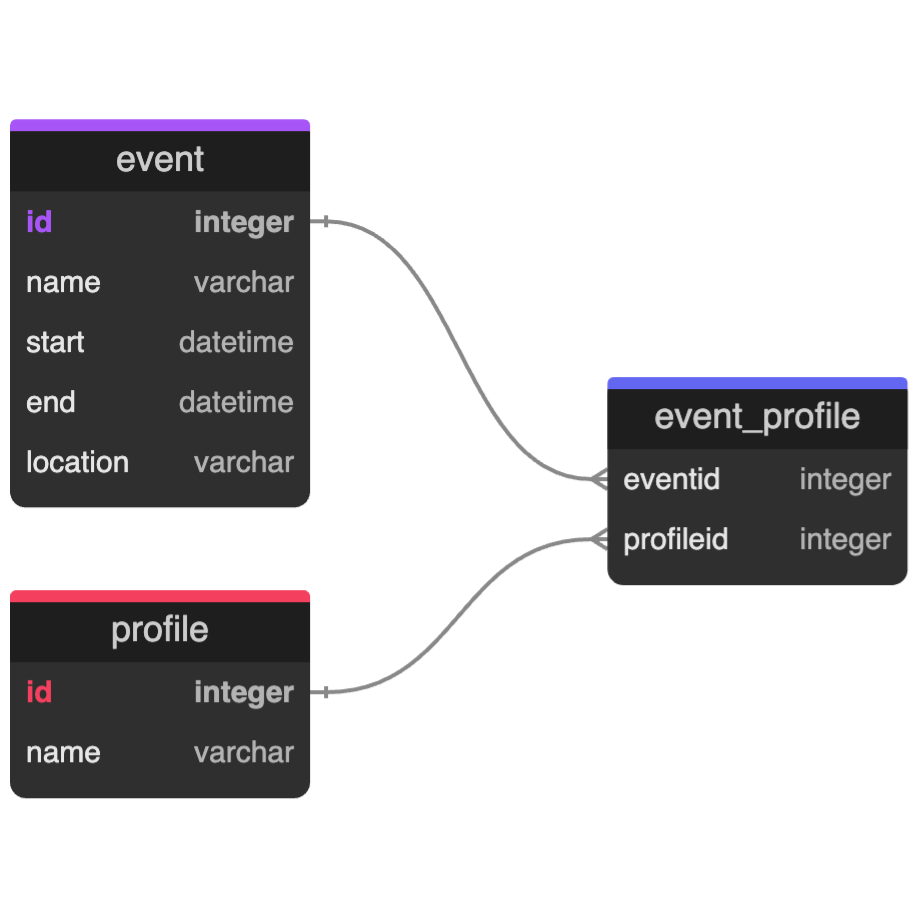
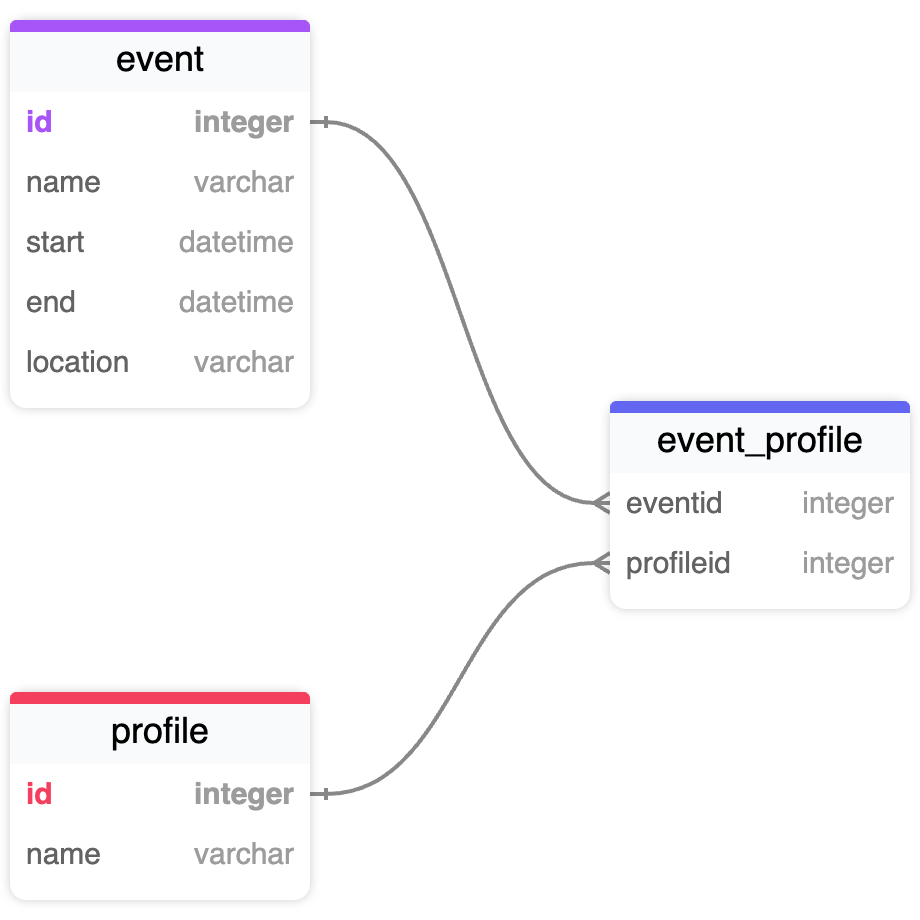
Created models for event, profile, and event_profile. Create functions to query event, profile, and event_profile. Minor enhancements to diagrams and README.

diff --git a/api/event-api.py b/api/event-api.py
@@ -1,0 +1,63 @@
+import os
+from sqlalchemy import create_engine, select
+from sqlalchemy.engine import URL
+from sqlalchemy.orm import Session, joinedload
+from dotenv import load_dotenv
+
+# Load environment variables
+load_dotenv()
+
+url = URL.create(
+    drivername="postgresql+psycopg2",
+    username=os.getenv("DB_USERNAME"),
+    password=os.getenv("DB_PASSWORD"),
+    host=os.getenv("DB_HOST"),
+    port=int(os.getenv("DB_PORT", "5432")),
+    database=os.getenv("DB_NAME"),
+    query={"client_encoding": "utf8"},
+)
+
+engine = create_engine(url)
+
+from ..models.event import Event
+from ..models.profile import Profile
+from ..models.event_profile import Event_Profile
+
+
+def get_events():
+    stmt = select(Event)
+    with Session(engine) as session:
+        events = session.execute(stmt).scalars().unique().all()
+        for event in events:
+            data = {
+                "id": event.id,
+                "name": event.name,
+                "start": event.start,
+                "end": event.end,
+                "location": event.location,
+            }
+    return {"students": data}
+
+
+def get_profiles():
+    stmt = select(Profile)
+    with Session(engine) as session:
+        profiles = session.execute(stmt).scalars().unique.all()
+        for profile in profiles:
+            data = {
+                "id": profile.id,
+                "name": profile.name,
+            }
+    return {"modules": data}
+
+
+def get_event_profiles():
+    stmt = select(Event_Profile)
+    with Session(engine) as session:
+        event_profiles = session.execute(stmt).scalars().all()
+        for event_profile in event_profiles:
+            data = {
+                "profile_id": event_profile.profileid,
+                "event_id": event_profile.eventid,
+            }
+    return {"enrolments": data}

diff --git a/models/event_profile.py b/models/event_profile.py
@@ -1,0 +1,17 @@
+from sqlalchemy import ForeignKey
+from sqlalchemy.orm import relationship, DeclarativeBase, Mapped, mapped_column
+
+
+class Base(DeclarativeBase):
+    pass
+
+
+class Event_Profile(Base):
+    __tablename__ = "event_profile"
+
+    eventid: Mapped[int] = mapped_column(ForeignKey("event.id"), nullable=False)
+    profileid: Mapped[int] = mapped_column(ForeignKey("profile.id"), nullable=False)
+
+    # Relationships
+    event: Mapped["Event"] = relationship(back_populates="event_profile")
+    module: Mapped["Profile"] = relationship(back_populates="event_profile")

diff --git a/models/event.py b/models/event.py
@@ -1,0 +1,16 @@
+from sqlalchemy import Column, Integer, Text, DateTime
+from sqlalchemy.orm import relationship, DeclarativeBase, Mapped, mapped_column
+
+
+class Base(DeclarativeBase):
+    pass
+
+
+class Event(Base):
+    __tablename__ = "event"
+
+    id: Mapped[int] = mapped_column(primary_key=True)
+    name: Mapped[DateTime]
+    start: Mapped[DateTime]
+    end: Mapped[str]
+    location: Mapped[str]

diff --git a/models/profile.py b/models/profile.py
@@ -1,0 +1,13 @@
+from sqlalchemy import Column, Integer, Text, DateTime
+from sqlalchemy.orm import relationship, DeclarativeBase, Mapped, mapped_column
+
+
+class Base(DeclarativeBase):
+    pass
+
+
+class Profile(Base):
+    __tablename__ = "profile"
+
+    id: Mapped[int] = mapped_column(primary_key=True)
+    name: Mapped[str]

diff --git a/README.md b/README.md
@@ -17,10 +17,10 @@ We welcome any and all contributions to this project. Please follow the steps li
 ## Architecture
 
 ### High-Level Diagram
-![HLD](./diagrams/architecture.svg)
+<img src="./diagrams/architecture.svg" alr="HLD" width="500">
 
 ### Database Schema
-![DB Schema](./diagrams/db-schema.png)
+<img src="./diagrams/db-schema.png" alt="DB Schema" width="500">
 
 ## Badges
 
